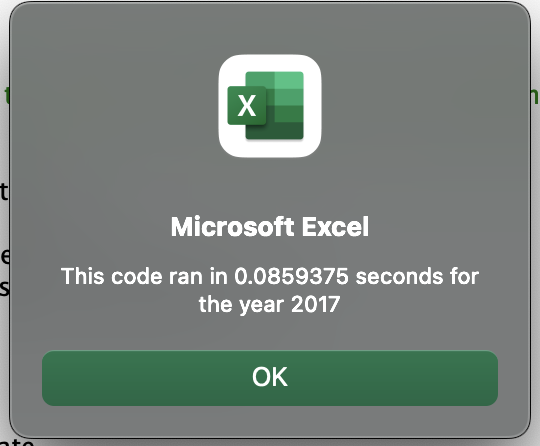
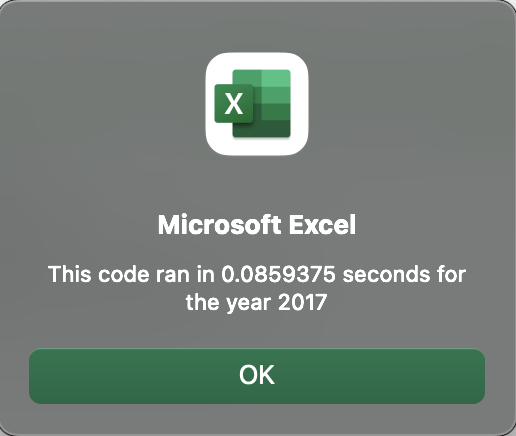
Updated ReadME and cropped images

diff --git a/README.md b/README.md
@@ -6,18 +6,18 @@
 The current code allows the user to analyze a few stocks at once but may not work as well when expanded to thousands of stocks. To test this I will refactor the exisitng code which will allow the user to analyze the entire stock market and then determine if the refactor decreased script run time.
 
 ## Results
-Some of the changes I made was to run the all of the code including the formatting in the same subroutine whereas the original code had them seperated into seperate subroutines. 
+One of the changes I made was to run all of the code including the formatting in the same subroutine whereas the original code had them seperated into seperate subroutines. 
 
-Some of the code that that I made were creating a tickerIndex instead of calling specific cells as I had in the original code: 
+A big change that was made in the refactored code was to loop the entire sheet instead of specified cells as I had done in the orignal code: 
 
-Original Code: 
+###Original Code: 
   If Cells(j - 1, 1).Value <> ticker And Cells(j, 1).Value = ticker 
 
-Refactored Code: 
+###Refactored Code: 
 "tickerVolumes(tickerIndex) = tickerVolumes(tickerIndex) + Cells(i, 8).Value" 
 This allowed volume of the current "tickerVolumes" to increase by using the "tickerIndex" variable.
 
-The results are that the refactored code may look nicer and easy to follow however it takes longer to run.
+The results are that the refactored code may look nicer and easy to follow however it takes longer to run. Most likely this is because the refactored code loops the entire stock data set instead of specifying cells. 
 
 Refactored 2017 Results:
 ![VBA_Challenge_2017.png](/Resources/VBA_Challenge_2017.png)
@@ -34,7 +34,7 @@ Original 2018 Results:
 ## Summary
 
 - What are the advantages or disadvantages of refactoring the code?
-The refactored code completes quicker than the the orginal code however, it is more difficult to write and takes more time. That being said the refactored code is nicer to look at and easier to follow.
+The refactored code took longer to write and although it takes longer to run it does go through the entire Data Set where as the orignal code only takes into account designated cells.
 
 - How do these pros and cons apply to refactoring the original VBA script?
-Refactoring the code is a time investment with the benefit of the code running smoothly and quicker. The refactored code is also easier to follow and understand.
+Refactoring the code is a time investment and more taxing for the system to run but it does give results over the whole data set without the user having to change cell designation. 
